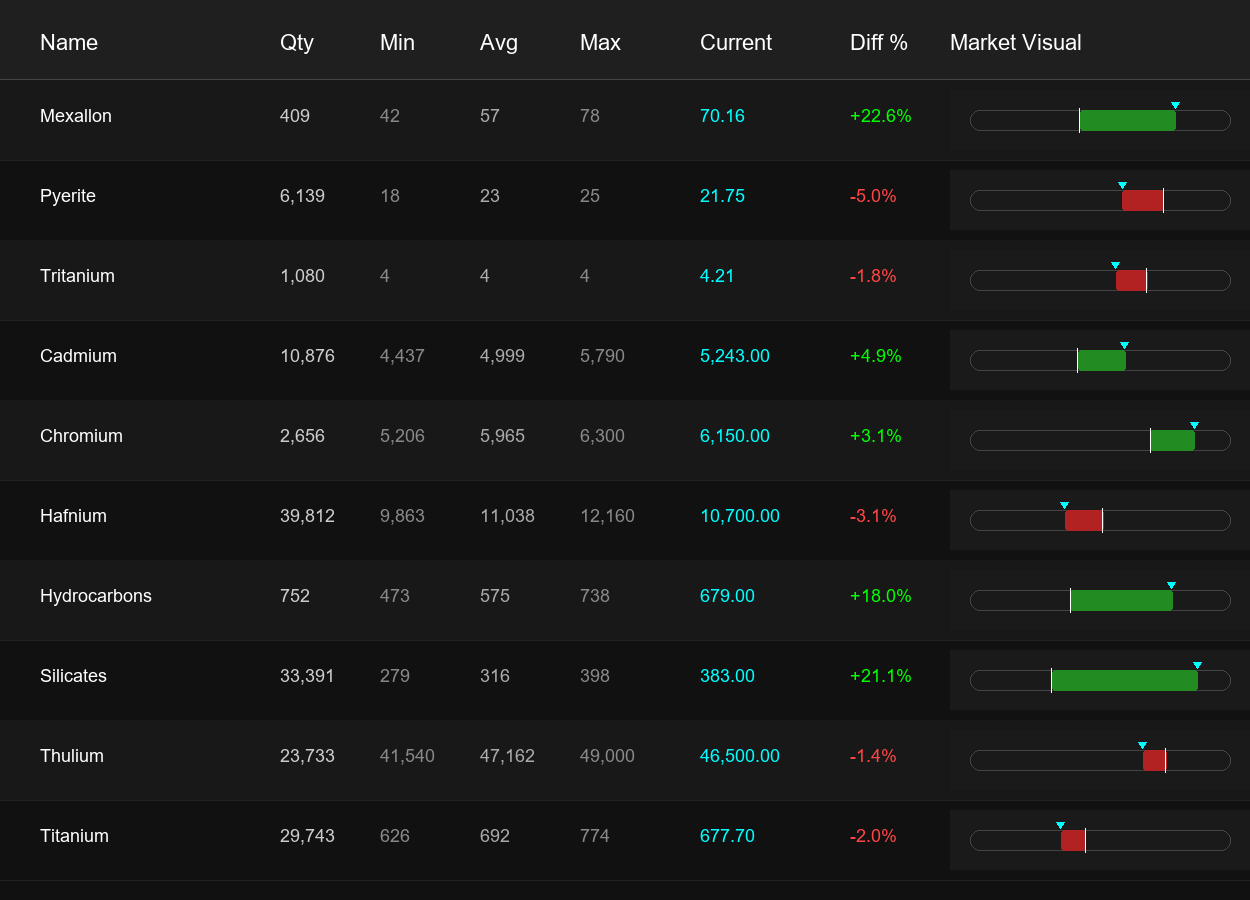
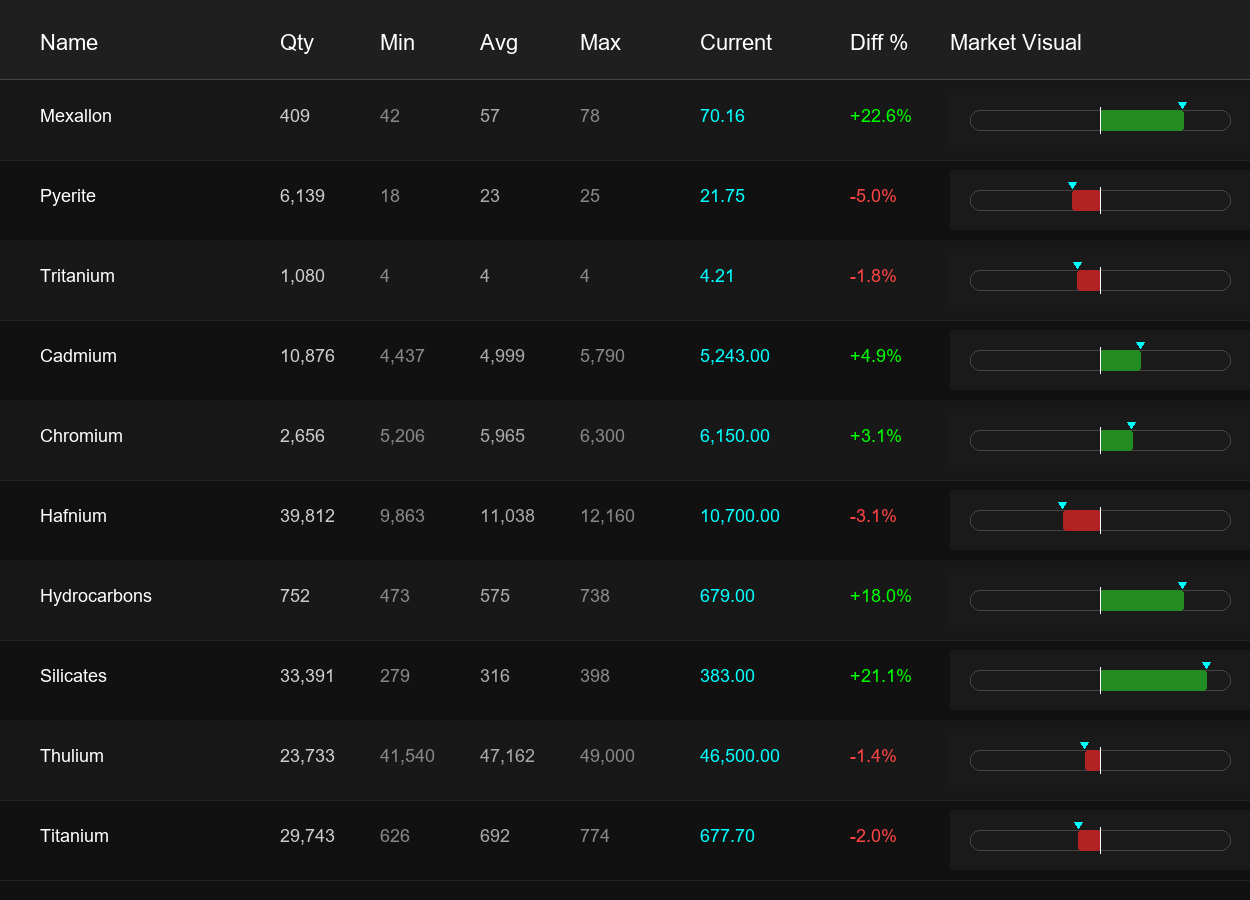
v 0.0.5 Fix market indicator scaling: center avg price and map min/max as symmetric % deviations

diff --git a/MMBANK/storage/stock_decision.py b/MMBANK/storage/stock_decision.py
@@ -54,29 +54,68 @@ def generate_indicator(item, index):
     x_start, x_end = 20, 280
     y_top, y_bot = 20, 40
 
-    draw.rounded_rectangle([x_start, y_top, x_end, y_bot], radius=10, outline="#444444", width=1)
+    draw.rounded_rectangle(
+        [x_start, y_top, x_end, y_bot],
+        radius=10,
+        outline="#444444",
+        width=1
+    )
 
-    p_min, p_max, p_avg, p_cur = item['price_min'], item['price_max'], item['price_avg'], item['price_current']
+    p_min = item['price_min']
+    p_max = item['price_max']
+    p_avg = item['price_avg']
+    p_cur = item['price_current']
 
-    def get_x(price):
-        if p_max == p_min: return (x_start + x_end) / 2
-        ratio = max(0, min(1, (price - p_min) / (p_max - p_min)))
-        return x_start + ratio * (x_end - x_start)
+    center_x = (x_start + x_end) / 2
+    half_width = (x_end - x_start) / 2
 
-    x_avg = get_x(p_avg)
-    x_cur = get_x(p_cur)
+    if p_avg <= 0:
+        return None
 
-    if p_cur >= p_avg:
-        draw.rounded_rectangle([x_avg, y_top, x_cur, y_bot], radius=3, fill="#228B22")
+    down_pct = (p_avg - p_min) / p_avg
+    up_pct = (p_max - p_avg) / p_avg
+    scale_pct = max(down_pct, up_pct, 1e-6)
+
+    def price_to_x(price):
+        pct = (price - p_avg) / p_avg
+        pct = max(-scale_pct, min(scale_pct, pct))
+        return center_x + (pct / scale_pct) * half_width
+
+    x_avg = center_x
+    x_cur = price_to_x(p_cur)
+
+    if x_cur >= x_avg:
+        draw.rounded_rectangle(
+            [x_avg, y_top, x_cur, y_bot],
+            radius=3,
+            fill="#228B22"
+        )
     else:
-        draw.rounded_rectangle([x_cur, y_top, x_avg, y_bot], radius=3, fill="#B22222")
+        draw.rounded_rectangle(
+            [x_cur, y_top, x_avg, y_bot],
+            radius=3,
+            fill="#B22222"
+        )
 
-    draw.line([(x_avg, y_top - 2), (x_avg, y_bot + 2)], fill="white", width=1)
-    draw.polygon([(x_cur, y_top - 2), (x_cur - 4, y_top - 8), (x_cur + 4, y_top - 8)], fill="#00FFFF")
+    draw.line(
+        [(x_avg, y_top - 3), (x_avg, y_bot + 3)],
+        fill="#FFFFFF",
+        width=1
+    )
+
+    draw.polygon(
+        [
+            (x_cur, y_top - 2),
+            (x_cur - 4, y_top - 8),
+            (x_cur + 4, y_top - 8)
+        ],
+        fill="#00FFFF"
+    )
 
     path = os.path.join(TEMP_DIR, f"ind_{index}.png")
     img.save(path)
     return path
+
 
 
 def create_final_report(data_list):
